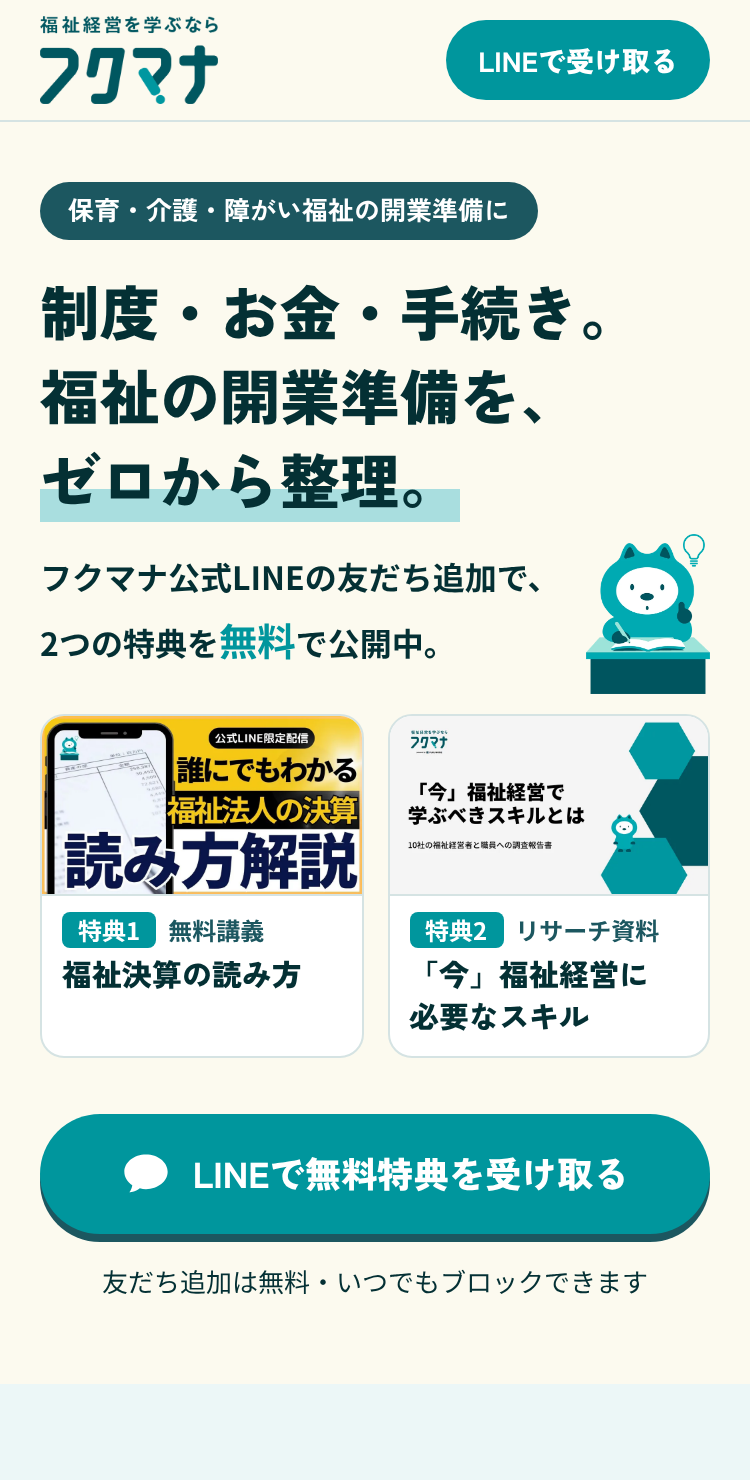
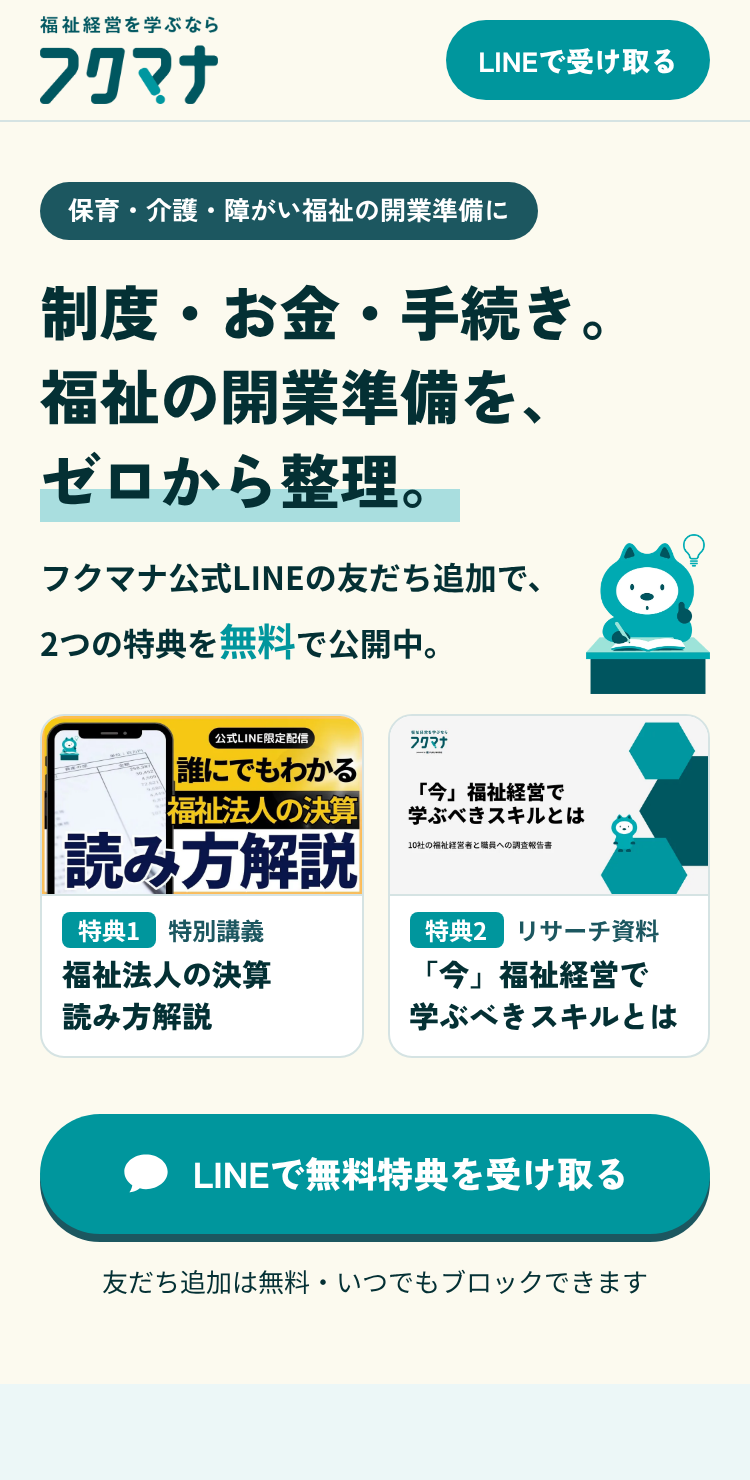
ご指摘の反映：特典名を実物の表記に統一、広告とLPのデザイン修正
- 広告：サブコピーの「無料」の重複を解消（特別講義に変更）、C案の調査対象タグを削除
- LP：あいさつメッセージの画面を、設定用の表示が出ない図に差し替え
- LP：悩みの1行目を短くして行数をそろえた
- 特典1の講義内容を4つのセクション構成に更新
- README：main 作成済みの手順に更新、プライバシーポリシーの追記文案を追加

Claude-Session: https://claude.ai/code/session_01Gytoe35i33PLdYLQRtt8mr

Changed region(s): [[0.092, 0.6216, 0.3987, 0.7149], [0.552, 0.6527, 0.8893, 0.7149]]

diff --git a/lp/index.html b/lp/index.html
@@ -3,15 +3,15 @@
 <head>
 <meta charset="utf-8">
 <meta name="viewport" content="width=device-width, initial-scale=1">
-<title>福祉の開業準備を、ゼロから整理。無料講義と調査資料をLINEで公開中｜フクマナ</title>
-<meta name="description" content="保育・介護・障がい福祉の開業準備に。フクマナ公式LINEの友だち追加で、無料講義「福祉決算の読み方」とリサーチ資料「『今』福祉経営に必要なスキル」を受け取れます。">
+<title>福祉の開業準備を、ゼロから整理。特別講義と調査資料をLINEで公開中｜フクマナ</title>
+<meta name="description" content="保育・介護・障がい福祉の開業準備に。フクマナ公式LINEの友だち追加で、特別講義「誰にでもわかる 福祉法人の決算 読み方解説」とリサーチ資料「『今』福祉経営で学ぶべきスキルとは」を無料で受け取れます。">
 <link rel="canonical" href="https://lp.fukunone.org/">
 
 <!-- OGP（SNSでシェアされたときに出る画像と説明文） -->
 <meta property="og:type" content="website">
 <meta property="og:site_name" content="フクマナ">
 <meta property="og:title" content="福祉の開業準備を、ゼロから整理。｜フクマナ">
-<meta property="og:description" content="LINE登録で、無料講義「福祉決算の読み方」とリサーチ資料「『今』福祉経営に必要なスキル」を公開中。">
+<meta property="og:description" content="LINE登録で、特別講義「誰にでもわかる 福祉法人の決算 読み方解説」とリサーチ資料「『今』福祉経営で学ぶべきスキルとは」を無料公開中。">
 <meta property="og:url" content="https://lp.fukunone.org/">
 <meta property="og:image" content="https://lp.fukunone.org/assets/img/ogp.png">
 <meta property="og:image:width" content="1200">
@@ -86,13 +86,13 @@
     <ul class="fv__gifts">
       <li class="gift">
         <img src="assets/img/lecture-thumb.webp" width="960" height="540" alt="特別講義のサムネイル：誰にでもわかる 福祉法人の決算 読み方解説" fetchpriority="high">
-        <p class="gift__label"><span class="gift__num">特典1</span>無料講義</p>
-        <p class="gift__name">福祉決算の読み方</p>
+        <p class="gift__label"><span class="gift__num">特典1</span>特別講義</p>
+        <p class="gift__name">福祉法人の決算<br>読み方解説</p>
       </li>
       <li class="gift">
         <img src="assets/img/report-cover.webp" width="960" height="540" alt="リサーチ資料の表紙：「今」福祉経営で学ぶべきスキルとは">
         <p class="gift__label"><span class="gift__num">特典2</span>リサーチ資料</p>
-        <p class="gift__name">「今」福祉経営に<br>必要なスキル</p>
+        <p class="gift__name">「今」福祉経営で<br>学ぶべきスキルとは</p>
       </li>
     </ul>
 
@@ -111,7 +111,7 @@
   <div class="inner">
     <h2 class="sec__title">開業準備で、<br class="sp">こんな壁はありませんか</h2>
     <ul class="worries">
-      <li><span class="check" aria-hidden="true"></span>福祉の制度や、報酬の仕組みが複雑でつかみにくい</li>
+      <li><span class="check" aria-hidden="true"></span>福祉の制度や報酬の仕組みがわかりにくい</li>
       <li><span class="check" aria-hidden="true"></span>決算書や資金計画、融資の話になると自信がない</li>
       <li><span class="check" aria-hidden="true"></span>何から勉強すればいいのか、順番がわからない</li>
       <li><span class="check" aria-hidden="true"></span>経営のことを相談できる相手が身近にいない</li>
@@ -137,14 +137,15 @@
     <article class="card">
       <img class="card__img" src="assets/img/lecture-slide.webp" width="960" height="531" alt="講義画面：計算関係書類とは" loading="lazy">
       <div class="card__body">
-        <p class="card__tag">特典1｜無料講義（動画）</p>
-        <h3 class="card__title">福祉決算の読み方</h3>
-        <p>福祉法人の決算書を、はじめての方にもわかるように解説するLINE限定の特別講義です。</p>
-        <ul class="list">
-          <li>計算関係書類<small>（法人のお金の動きと財産の状況をまとめた書類一式）</small>とは何か</li>
-          <li>福祉法人の決算書を読むときの基本</li>
-          <li>フクノネコと一緒に、スマホで視聴できる</li>
-        </ul>
+        <p class="card__tag">特典1｜特別講義（動画）</p>
+        <h3 class="card__title">誰にでもわかる<br>福祉法人の決算 読み方解説</h3>
+        <p>福祉法人の決算書の読み方を、4つのセクションで解説するLINE限定の特別講義です。</p>
+        <ol class="list list--num">
+          <li>計算関係書類とは<small>（法人のお金の動きと財産の状況をまとめた書類一式）</small></li>
+          <li>事業活動計算書とは<small>（1年間の収益と費用をまとめた書類。一般企業の損益計算書にあたる）</small></li>
+          <li>貸借対照表とは<small>（ある時点の資産・負債・純資産をまとめた書類）</small></li>
+          <li>貸借対照表と事業活動計算書の関係性</li>
+        </ol>
       </div>
     </article>
 
@@ -152,7 +153,7 @@
       <img class="card__img" src="assets/img/report-chart.webp" width="960" height="540" alt="資料の一部：経営を始める上で不安・未知なこと" loading="lazy">
       <div class="card__body">
         <p class="card__tag">特典2｜リサーチ資料（全19ページ）</p>
-        <h3 class="card__title">「今」福祉経営に必要なスキル</h3>
+        <h3 class="card__title">「今」福祉経営で<br class="sp">学ぶべきスキルとは</h3>
         <p>保育・介護・障がい福祉分野の福祉経営者10社と福祉職員80名への調査をまとめた報告書です。</p>
         <ul class="list">
           <li>現役の福祉経営者が「今」習得してほしいと考えるスキル</li>
@@ -186,13 +187,17 @@
       <li class="step">
         <p class="step__num">STEP 2</p>
         <h3 class="step__title">「講義を視聴する」と送信</h3>
-        <p>あいさつメッセージが届きます。トークで「講義を視聴する」と送ると、無料講義を視聴できます。</p>
-        <img class="step__img" src="assets/img/line-greeting.webp" width="720" height="639" alt="LINEのあいさつメッセージの画面" loading="lazy">
+        <p>あいさつメッセージが届きます。トークで「講義を視聴する」と送ると、特別講義を視聴できます。</p>
+        <div class="chat" role="img" aria-label="LINEのトーク画面のイメージ">
+          <p class="chat__msg chat__msg--in">はじめまして！フクマナです。友だち追加ありがとうございます。<br>まずはLINE限定特典として特別講義をプレゼント。「講義を視聴する」とメッセージを送ると、自動で視聴いただけます。</p>
+          <p class="chat__msg chat__msg--out">講義を視聴する</p>
+          <p class="chat__note">※トーク画面のイメージです</p>
+        </div>
       </li>
       <li class="step">
         <p class="step__num">STEP 3</p>
         <h3 class="step__title">メニューから資料を読む</h3>
-        <p>トーク画面下のメニューにある「『今』福祉経営に必要なスキル」から、リサーチ資料を読めます。</p>
+        <p>トーク画面下のメニューにある「『今』福祉経営に必要なスキル」ボタンから、リサーチ資料を読めます。</p>
         <img class="step__img" src="assets/img/line-menu.webp" width="720" height="486" alt="LINEのメニュー画面" loading="lazy">
       </li>
     </ol>
@@ -265,7 +270,7 @@
     </figure>
 
     <div class="cta">
-      <p class="cta__lead">まずは無料講義で、学び方を体験</p>
+      <p class="cta__lead">まずは特別講義で、学び方を体験</p>
       <a class="btn btn--line js-line" href="https://lin.ee/SRA6yFh" data-pos="course" rel="noopener">
         <svg class="btn__icon" viewBox="0 0 24 24" aria-hidden="true"><path fill="currentColor" d="M12 3C6.48 3 2 6.58 2 11c0 2.5 1.43 4.73 3.67 6.2-.13.9-.55 2.3-1.42 3.3 0 0 2.9-.2 4.9-1.9.9.25 1.86.4 2.85.4 5.52 0 10-3.58 10-8s-4.48-8-10-8z"/></svg>
         LINEで無料特典を受け取る
@@ -282,11 +287,11 @@
     <div class="faq">
       <details>
         <summary>特典は本当に無料ですか？</summary>
-        <p>はい。LINEの友だち追加と、2つの特典（無料講義・リサーチ資料）の受け取りに料金はかかりません。</p>
+        <p>はい。LINEの友だち追加と、2つの特典（特別講義・リサーチ資料）の受け取りに料金はかかりません。</p>
       </details>
       <details>
         <summary>特典はどうやって受け取りますか？</summary>
-        <p>友だち追加後、トークで「講義を視聴する」と送ると無料講義を視聴できます。リサーチ資料は、トーク画面下のメニュー「『今』福祉経営に必要なスキル」から読めます。</p>
+        <p>友だち追加後、トークで「講義を視聴する」と送ると特別講義を視聴できます。リサーチ資料は、トーク画面下のメニューにある「『今』福祉経営に必要なスキル」ボタンから読めます。</p>
       </details>
       <details>
         <summary>福祉業界が未経験でも大丈夫ですか？</summary>
@@ -308,8 +313,8 @@
 <section class="sec final">
   <div class="inner">
     <img class="final__neko" src="assets/img/neko-desk-writing.webp" width="440" height="530" alt="" loading="lazy">
-    <h2 class="final__title">はじめの一歩は、<br>無料講義から。</h2>
-    <p class="final__text">無料講義「福祉決算の読み方」と、<br>リサーチ資料「『今』福祉経営に必要なスキル」を<br>LINEで公開中です。</p>
+    <h2 class="final__title">はじめの一歩は、<br>特別講義から。</h2>
+    <p class="final__text">特別講義とリサーチ資料を、<br>LINEで無料公開中です。</p>
     <div class="cta">
       <a class="btn btn--white js-line" href="https://lin.ee/SRA6yFh" data-pos="final" rel="noopener">
         <svg class="btn__icon" viewBox="0 0 24 24" aria-hidden="true"><path fill="currentColor" d="M12 3C6.48 3 2 6.58 2 11c0 2.5 1.43 4.73 3.67 6.2-.13.9-.55 2.3-1.42 3.3 0 0 2.9-.2 4.9-1.9.9.25 1.86.4 2.85.4 5.52 0 10-3.58 10-8s-4.48-8-10-8z"/></svg>

diff --git a/lp/assets/css/style.css b/lp/assets/css/style.css
@@ -111,12 +111,23 @@ small { font-size: .82em; font-weight: 500; opacity: .85; }
 .list li { position: relative; padding-left: 20px; font-weight: 700; line-height: 1.6; }
 .list li::before { content: ""; position: absolute; left: 2px; top: .62em; width: 9px; height: 9px; border-radius: 2px; background: var(--green); }
 
+.list--num { counter-reset: n; }
+.list--num li { counter-increment: n; padding-left: 30px; }
+.list--num li::before { content: counter(n); top: .2em; left: 0; width: 22px; height: 22px; border-radius: 50%; color: var(--white); font-family: var(--font-head); font-weight: 900; font-size: 13px; line-height: 22px; text-align: center; }
+.list--num small { display: block; }
+
 /* ステップ */
 .steps { margin-top: 24px; display: grid; gap: 16px; }
 .step { background: var(--white); border-radius: 14px; padding: 18px; }
 .step__num { display: inline-block; padding: 0 12px; border-radius: 999px; background: var(--deep); color: var(--white); font-family: var(--font-head); font-weight: 900; font-size: 13px; letter-spacing: .06em; }
 .step__title { margin: 6px 0 4px; font-family: var(--font-head); font-weight: 900; font-size: 19px; line-height: 1.5; }
 .step__img { margin: 14px auto 0; width: 100%; max-width: 320px; border-radius: 10px; border: 1px solid var(--line); }
+
+.chat { margin: 14px auto 0; max-width: 320px; background: #8FAEDB; border-radius: 10px; padding: 14px 12px 10px; display: grid; gap: 10px; }
+.chat__msg { max-width: 88%; padding: 10px 12px; border-radius: 14px; font-size: 13px; line-height: 1.6; font-weight: 500; }
+.chat__msg--in { background: var(--white); justify-self: start; border-top-left-radius: 4px; }
+.chat__msg--out { background: #A9E88B; justify-self: end; border-top-right-radius: 4px; font-weight: 700; }
+.chat__note { font-size: 11px; color: var(--white); text-align: right; line-height: 1.4; }
 
 /* フクマナとは */
 .points { margin-top: 24px; display: grid; gap: 10px; }
@@ -155,7 +166,7 @@ small { font-size: .82em; font-weight: 500; opacity: .85; }
 .final { background: var(--deep); color: var(--white); text-align: center; }
 .final__neko { width: 110px; margin: 0 auto 12px; background: var(--band); border-radius: 50%; padding: 14px; aspect-ratio: 1; object-fit: contain; }
 .final__title { font-family: var(--font-head); font-weight: 900; font-size: 30px; line-height: 1.4; }
-.final__text { margin-top: 14px; font-weight: 700; font-size: 14px; }
+.final__text { margin-top: 14px; font-weight: 700; font-size: 16px; }
 
 /* フッター */
 .footer { padding: 40px 0 32px; font-size: 13px; }
@@ -195,7 +206,7 @@ small { font-size: .82em; font-weight: 500; opacity: .85; }
   .fv .cta { grid-column: 1; grid-row: 2; text-align: left; margin-top: 24px; }
   .fv .btn { margin: 0; }
   .fv .cta__note { padding-left: 110px; }
-  .fv__neko { top: -72px; bottom: auto; right: 0; width: 84px; }
+  .fv__neko { top: -50px; bottom: auto; right: 0; width: 68px; }
   .sec { padding: 80px 0; }
   .sec__title { font-size: 34px; }
   .sec__text { max-width: 720px; margin-left: auto; margin-right: auto; }

diff --git a/ads/src/ad.html b/ads/src/ad.html
@@ -106,24 +106,24 @@
   var v = q.get("v") || "a", s = q.get("s") || "p";
   document.body.className = s + " v" + v;
 
-  var lecture = '<div class="gcard"><div class="img" style="background-image:url(img/lecture-thumb.jpg)"></div><div class="cap"><span class="tag">特典1</span><span class="kind">無料講義</span><p class="name">福祉決算の読み方</p></div></div>';
-  var report  = '<div class="gcard"><div class="img" style="background-image:url(img/report-cover-01.jpg)"></div><div class="cap"><span class="tag">特典2</span><span class="kind">リサーチ資料</span><p class="name">「今」福祉経営に<br>必要なスキル</p></div></div>';
+  var lecture = '<div class="gcard"><div class="img" style="background-image:url(img/lecture-thumb.jpg)"></div><div class="cap"><span class="tag">特典1</span><span class="kind">特別講義</span><p class="name">福祉法人の決算<br>読み方解説</p></div></div>';
+  var report  = '<div class="gcard"><div class="img" style="background-image:url(img/report-cover-01.jpg)"></div><div class="cap"><span class="tag">特典2</span><span class="kind">リサーチ資料</span><p class="name">「今」福祉経営で<br>学ぶべきスキルとは</p></div></div>';
 
   var data = {
     a: { // 不安解消型
       title: '制度・お金・手続き。<br>福祉の開業準備を、<br><span class="mk">ゼロから整理。</span>',
       visual: lecture + report, one: false,
-      sub: "無料講義とリサーチ資料を公開中", neko: "neko-desk-idea.png"
+      sub: "特別講義とリサーチ資料を公開中", neko: "neko-desk-idea.png"
     },
     b: { // 知識獲得型
       title: '福祉の決算書は、<br><span class="mk">ここを見る。</span>',
-      visual: lecture.replace('特典1', 'LINE限定').replace('<p class="name">福祉決算の読み方</p>', '<p class="name"><span style="display:inline-block">「福祉決算の</span><span style="display:inline-block">読み方」</span></p>'), one: true,
-      sub: "無料講義「福祉決算の読み方」公開中", neko: "neko-desk-writing.png"
+      visual: lecture.replace('特典1', 'LINE限定'), one: true,
+      sub: "特別講義「福祉法人の決算 読み方解説」公開中", neko: "neko-desk-writing.png"
     },
     c: { // 専門家型
       title: '現役の福祉経営者が選んだ<br><span class="mk">「今、学ぶべきこと」。</span>',
-      visual: report.replace('特典2', 'LINE限定').replace('</p></div></div>', '</p><p class="chips"><span>福祉経営者10社に調査</span><span>福祉職員80名に調査</span></p></div></div>'), one: true,
-      sub: "調査資料「『今』福祉経営に必要なスキル」公開中", neko: "neko-standing.png"
+      visual: report.replace('特典2', 'LINE限定'), one: true,
+      sub: "調査資料「『今』福祉経営で学ぶべきスキルとは」公開中", neko: "neko-standing.png"
     }
   }[v];
 

diff --git a/ads/ad_copy.md b/ads/ad_copy.md
@@ -24,10 +24,10 @@
 | 項目 | 文言 |
 |---|---|
 | 画像内メインコピー | 制度・お金・手続き。福祉の開業準備を、ゼロから整理。 |
-| 画像内サブコピー | LINE登録で無料／無料講義とリサーチ資料を公開中 |
-| メインテキスト（primary text） | 保育・介護・障がい福祉の開業準備は、制度・お金・手続きと、学ぶことが多い分野です。フクマナ公式LINEでは、無料講義「福祉決算の読み方」と、調査資料「『今』福祉経営に必要なスキル」を公開中。まずは全体像の整理から。 |
+| 画像内サブコピー | LINE登録で無料／特別講義とリサーチ資料を公開中 |
+| メインテキスト（primary text） | 保育・介護・障がい福祉の開業準備は、制度・お金・手続きと、学ぶことが多い分野です。フクマナ公式LINEでは、特別講義「福祉法人の決算 読み方解説」と調査資料「『今』福祉経営で学ぶべきスキルとは」を無料公開中。 |
 | 見出し | 福祉の開業準備を、ゼロから整理 |
-| 説明文 | LINE登録で無料講義と調査資料を公開中 |
+| 説明文 | LINE登録で特別講義と調査資料を無料公開中 |
 | CTAボタン | 詳しくはこちら |
 
 ## B案：知識獲得型（無料講義を前面に）
@@ -35,10 +35,10 @@
 | 項目 | 文言 |
 |---|---|
 | 画像内メインコピー | 福祉の決算書は、ここを見る。 |
-| 画像内サブコピー | LINE登録で無料／無料講義「福祉決算の読み方」公開中 |
-| メインテキスト（primary text） | 福祉法人の決算書には、一般の会社とは違う読み方があります。無料講義「福祉決算の読み方」では、計算関係書類（お金の動きと財産の状況をまとめた書類）の基本から解説。フクマナ公式LINEの友だち追加で視聴できます。 |
-| 見出し | 無料講義「福祉決算の読み方」 |
-| 説明文 | フクマナ公式LINEで公開中 |
+| 画像内サブコピー | LINE登録で無料／特別講義「福祉法人の決算 読み方解説」公開中 |
+| メインテキスト（primary text） | 特別講義「誰にでもわかる 福祉法人の決算 読み方解説」をLINE限定で公開中。計算関係書類、事業活動計算書、貸借対照表、そして2つの書類の関係性まで、4つのセクションで解説します。友だち追加で無料視聴できます。 |
+| 見出し | 特別講義「福祉法人の決算 読み方解説」 |
+| 説明文 | フクマナ公式LINEで無料公開中 |
 | CTAボタン | 詳しくはこちら |
 
 ## C案：専門家型（調査資料を前面に）
@@ -46,8 +46,8 @@
 | 項目 | 文言 |
 |---|---|
 | 画像内メインコピー | 現役の福祉経営者が選んだ「今、学ぶべきこと」。 |
-| 画像内サブコピー | LINE登録で無料／調査資料「『今』福祉経営に必要なスキル」公開中 |
-| メインテキスト（primary text） | 福祉経営者10社と福祉職員80名に、経営に必要なスキルを調査しました。経営者が「今」習得してほしいスキル、職員が不安に感じることを19ページの資料にまとめています。フクマナ公式LINEの友だち追加で読めます。 |
+| 画像内サブコピー | LINE登録で無料／調査資料「『今』福祉経営で学ぶべきスキルとは」公開中 |
+| メインテキスト（primary text） | 福祉経営者10社と福祉職員80名に、経営に必要なスキルを調査しました。経営者が「今」習得してほしいスキル、職員が不安に感じることを19ページの資料「『今』福祉経営で学ぶべきスキルとは」にまとめました。LINEの友だち追加で読めます。 |
 | 見出し | 福祉経営者が選んだ「今、学ぶべきこと」 |
 | 説明文 | 調査資料をLINEで無料公開中 |
 | CTAボタン | 詳しくはこちら |
@@ -57,5 +57,6 @@
 ## 補足
 
 - CTAボタンは「詳しくはこちら」を推奨します。リンク先がLP（説明ページ）なので、ボタンと遷移先の内容が合います。差し替え候補は「登録する」です。
-- 「一般の会社とは違う読み方があります」（B案）は、福祉法人に独自の会計基準（社会福祉法人会計基準）があることを指しています。フクマナHPの「社会福祉法人特有の会計処理も多く、専門性の高い会計基準」という説明に基づきます。
+- B案の講義内容（4つのセクション）は、運営者に確認した構成に基づきます。
+- 特典の名前は、実物の表記（講義サムネイル「誰にでもわかる 福祉法人の決算 読み方解説」、資料の表紙「『今』福祉経営で学ぶべきスキルとは」）に合わせています。画像内では短く「福祉法人の決算 読み方解説」としています。
 - C案の数字（10社・80名・19ページ）は、提供資料「『今』福祉経営で学ぶべきスキルとは」で確認しました。
